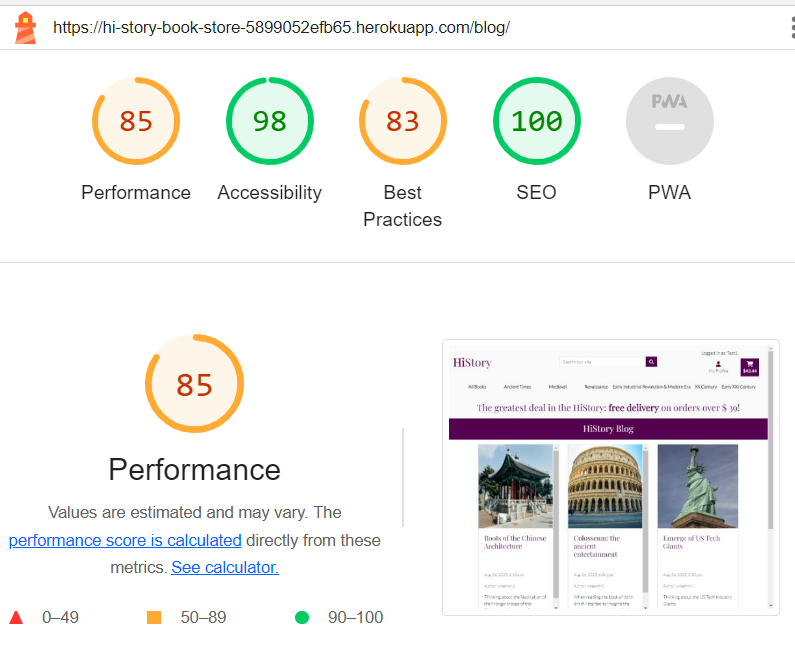
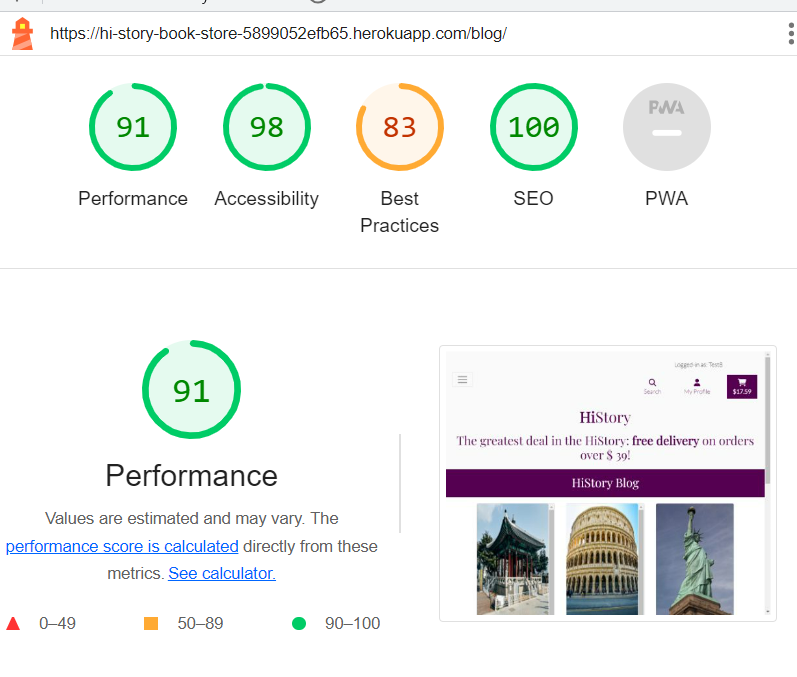
Code review & clean up: remove block page_header

diff --git a/home/templates/home/index.html b/home/templates/home/index.html
@@ -1,21 +1,15 @@
 {% extends "base.html" %}
 {% load static %}
 
-{% block page_header %}
-<div class="container header-container">
-    <div class="row">
-        <div class="col"></div>
-    </div>
-</div>
-{% endblock %}
-
 {% block content %}
+<!-- Home container -->
 <div class="container h-100">
     <div class="row">
         <div class="col-xl-6 col-md-12 mt-3">
             <h2 class="display-4 logo-font">
                 Your Next History Book is Here!
             </h2>
+            <!-- Buy a new book now button -->
             <div class="my-2">
                 <h3>
                     <a href="{% url 'books'%}" id="new-book-btn" class="main-clr-thm btn text-uppercase py-1">

diff --git a/books/templates/books/book_detail.html b/books/templates/books/book_detail.html
@@ -2,14 +2,6 @@
 {% extends "base.html" %}
 {% load static %}
 
-{% block page_header %}
-<div class="container header-container">
-    <div class="row">
-        <div class="col"></div>
-    </div>
-</div>
-{% endblock %}
-
 {% block content %}
 <div class="overlay"></div>
 <div class="container-fluid book-details-container">

diff --git a/books/templates/books/books.html b/books/templates/books/books.html
@@ -2,14 +2,6 @@
 {% extends "base.html" %}
 {% load static %}
 
-{% block page_header %}
-<div class="container header-container">
-    <div class="row">
-        <div class="col"></div>
-    </div>
-</div>
-{% endblock %}
-
 {% block content %}
 <div class="overlay"></div>
 <div class="container-fluid">

diff --git a/blog/templates/blog/blog.html b/blog/templates/blog/blog.html
@@ -1,13 +1,6 @@
 {% extends "base.html" %}
 {% load static %}
 
-{% block page_header %}
-<div class="container header-container">
-    <div class="row">
-        <div class="col"></div>
-    </div>
-</div>
-{% endblock %}
 {% block content %}
 <div class="overlay"></div>
 <div class="container-fluid">

diff --git a/cart/templates/cart/cart.html b/cart/templates/cart/cart.html
@@ -3,14 +3,6 @@
 {% load static %}
 {% load cart_tools %}
 
-{% block page_header %}
-<div class="container header-container">
-    <div class="row">
-        <div class="col"></div>
-    </div>
-</div>
-{% endblock %}
-
 {% block content %}
 <div class="overlay"></div>
 <div class="row main-clr-thm">

diff --git a/books/templates/books/add_book.html b/books/templates/books/add_book.html
@@ -1,14 +1,6 @@
 {% extends "base.html" %}
 {% load static %}
 
-{% block page_header %}
-<div class="container header-container">
-    <div class="row">
-        <div class="col"></div>
-    </div>
-</div>
-{% endblock %}
-
 {% block content %}
 <div class="overlay"></div>
 <div>

diff --git a/books/templates/books/delete_book.html b/books/templates/books/delete_book.html
@@ -1,14 +1,6 @@
 {% extends "base.html" %}
 {% load static %}
 
-{% block page_header %}
-<div class="container header-container">
-    <div class="row">
-        <div class="col"></div>
-    </div>
-</div>
-{% endblock %}
-
 {% block content %}
 <div class="overlay"></div>
 <div>

diff --git a/books/templates/books/edit_book.html b/books/templates/books/edit_book.html
@@ -1,14 +1,6 @@
 {% extends "base.html" %}
 {% load static %}
 
-{% block page_header %}
-<div class="container header-container">
-    <div class="row">
-        <div class="col"></div>
-    </div>
-</div>
-{% endblock %}
-
 {% block content %}
 <div class="overlay"></div>
 <div>

diff --git a/profiles/templates/profiles/profile.html b/profiles/templates/profiles/profile.html
@@ -2,14 +2,6 @@
 {% extends "base.html" %}
 {% load static %}
 
-{% block page_header %}
-<div class="container header-container">
-    <div class="row">
-        <div class="col"></div>
-    </div>
-</div>
-{% endblock %}
-
 {% block content %}
 <div class="overlay"></div>
 <div>

diff --git a/checkout/templates/checkout/checkout.html b/checkout/templates/checkout/checkout.html
@@ -3,14 +3,6 @@
 {% load static %}
 {% load cart_tools %}
 
-{% block page_header %}
-<div class="container header-container">
-    <div class="row">
-        <div class="col"></div>
-    </div>
-</div>
-{% endblock %}
-
 {% block content %}
 <div class="overlay"></div>
 <div>

diff --git a/home/templates/home/delivery.html b/home/templates/home/delivery.html
@@ -1,7 +1,7 @@
 {% extends "base.html" %}
 {% load static %}
 {% block content %}
-<!-- Privacy Policy Box -->
+<!-- Deliveries Policy Box -->
 <div class="overlay"></div>
 <div class="container-fluid">
     <div class="row main-clr-thm">

diff --git a/home/templates/home/club.html b/home/templates/home/club.html
@@ -1,7 +1,7 @@
 {% extends "base.html" %}
 {% load static %}
 {% block content %}
-<!-- Privacy Policy Box -->
+<!-- Club Box -->
 <div class="overlay"></div>
 <div class="container-fluid">
     <div class="row main-clr-thm">
